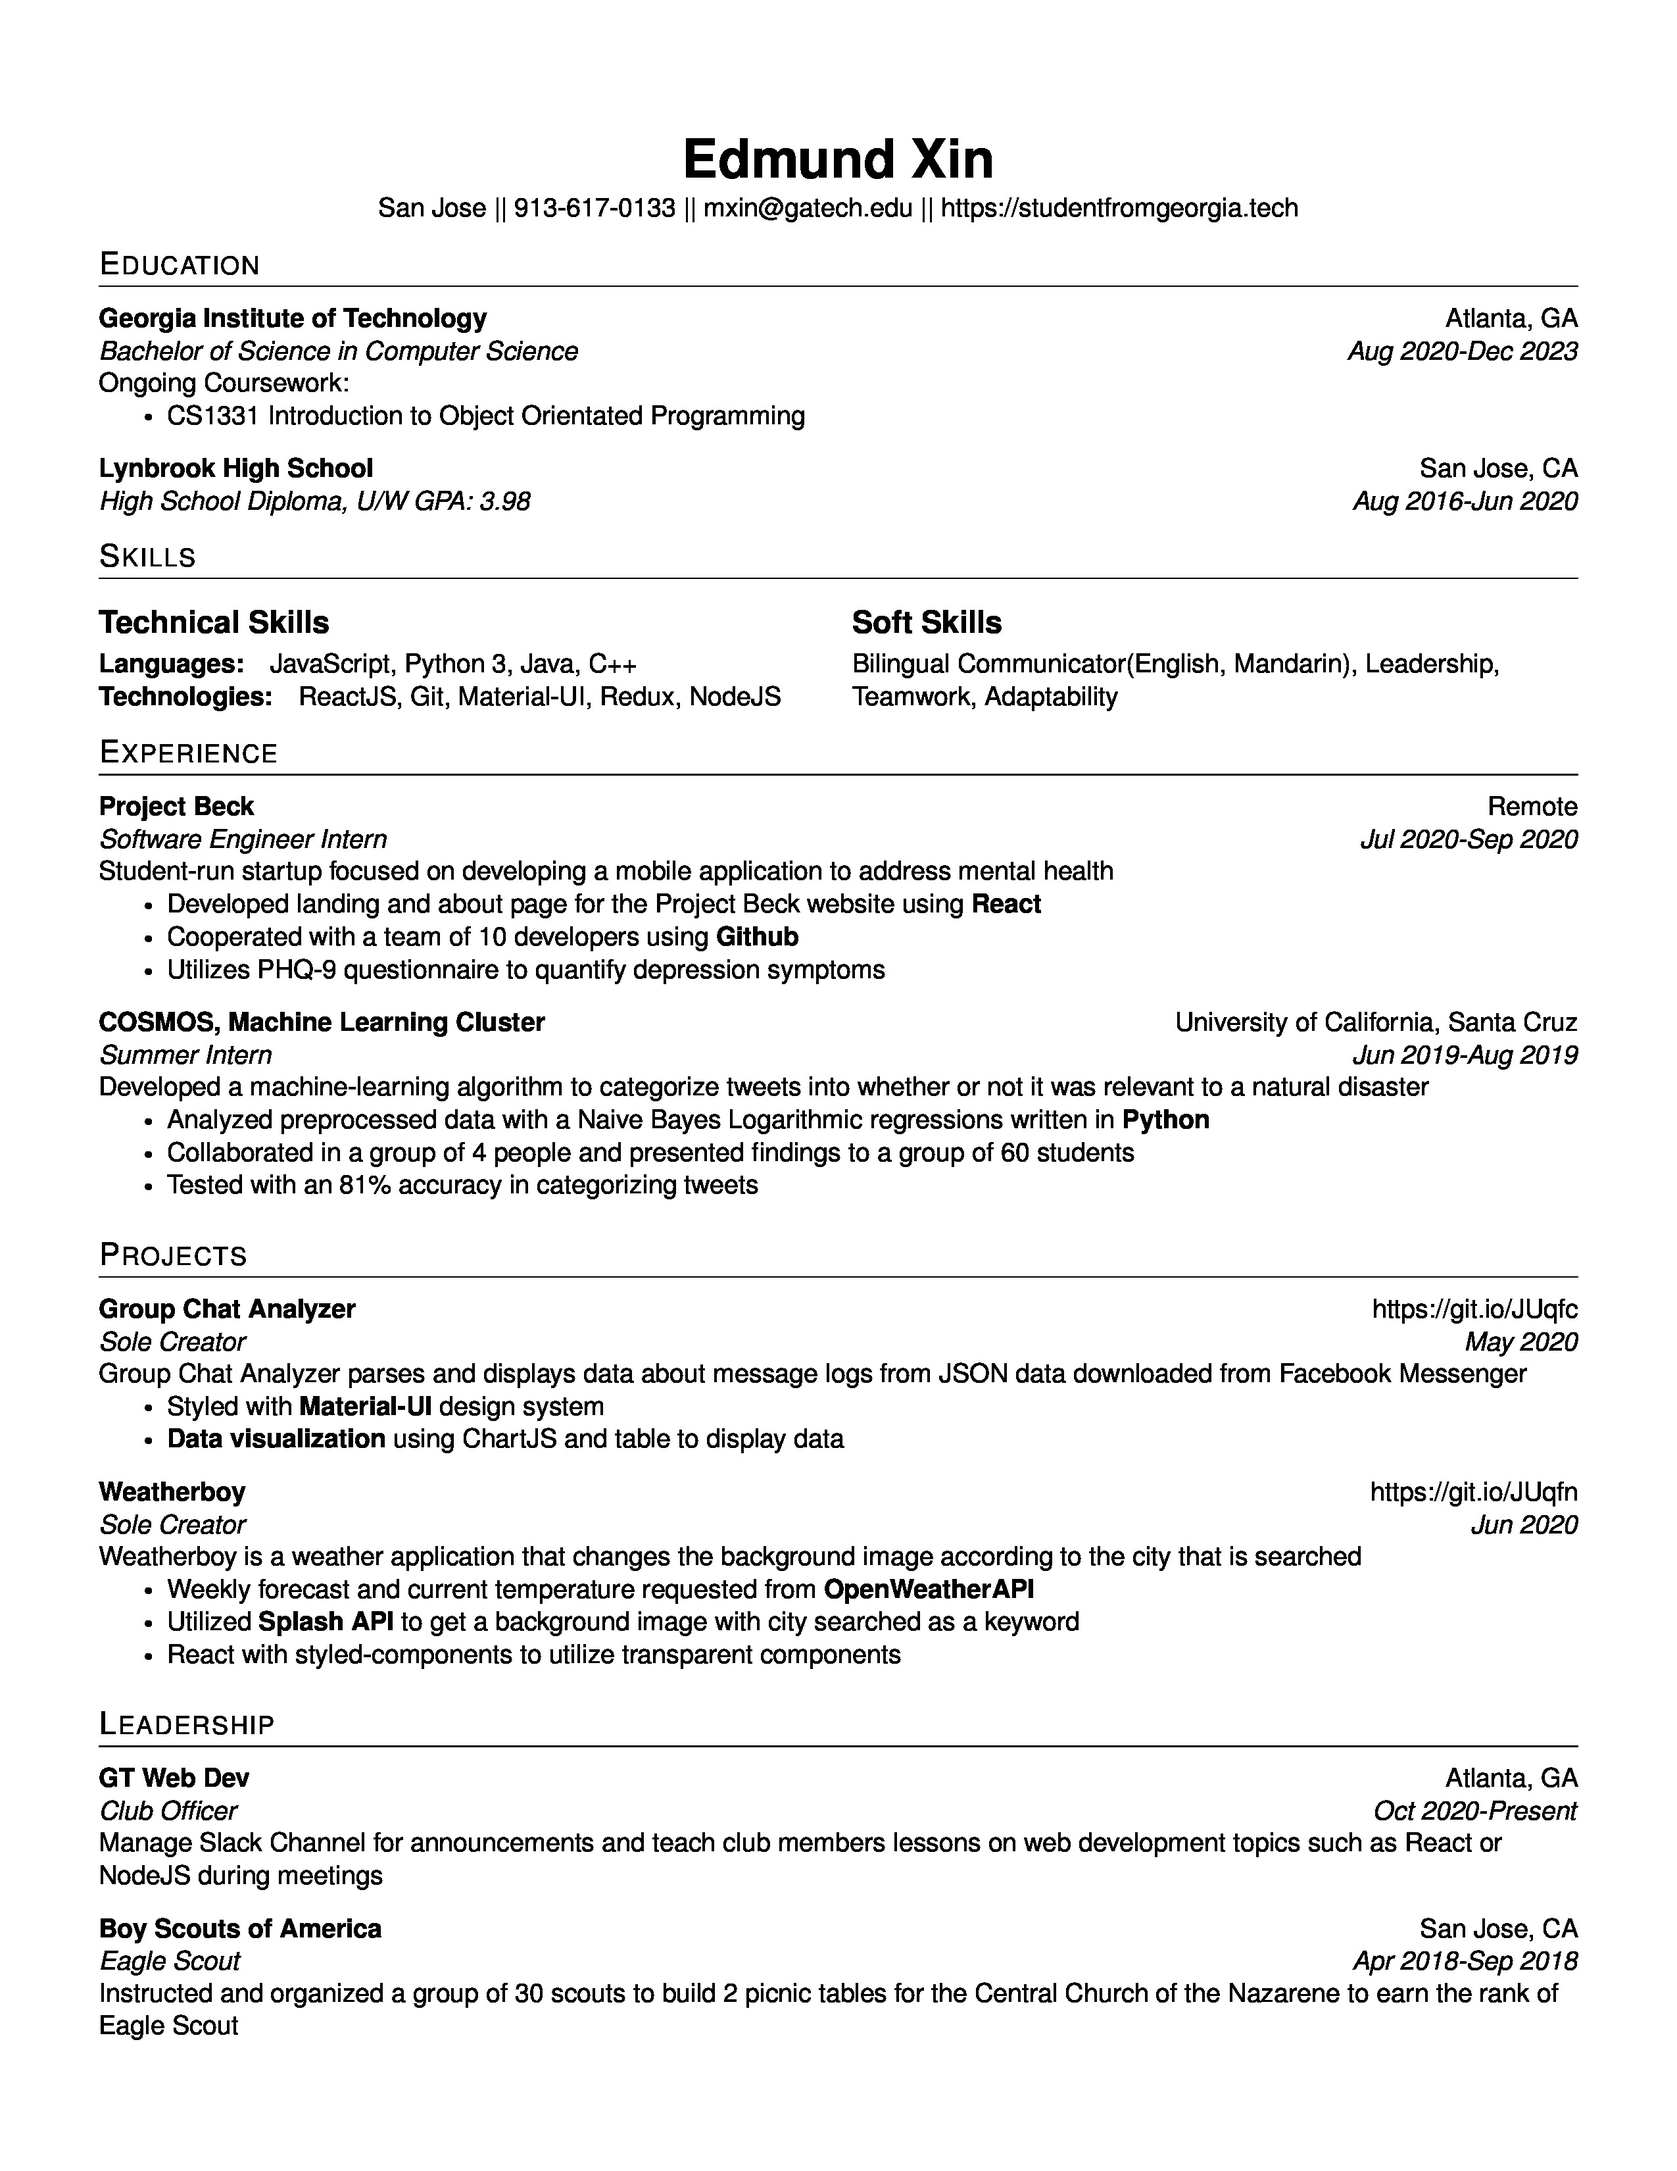
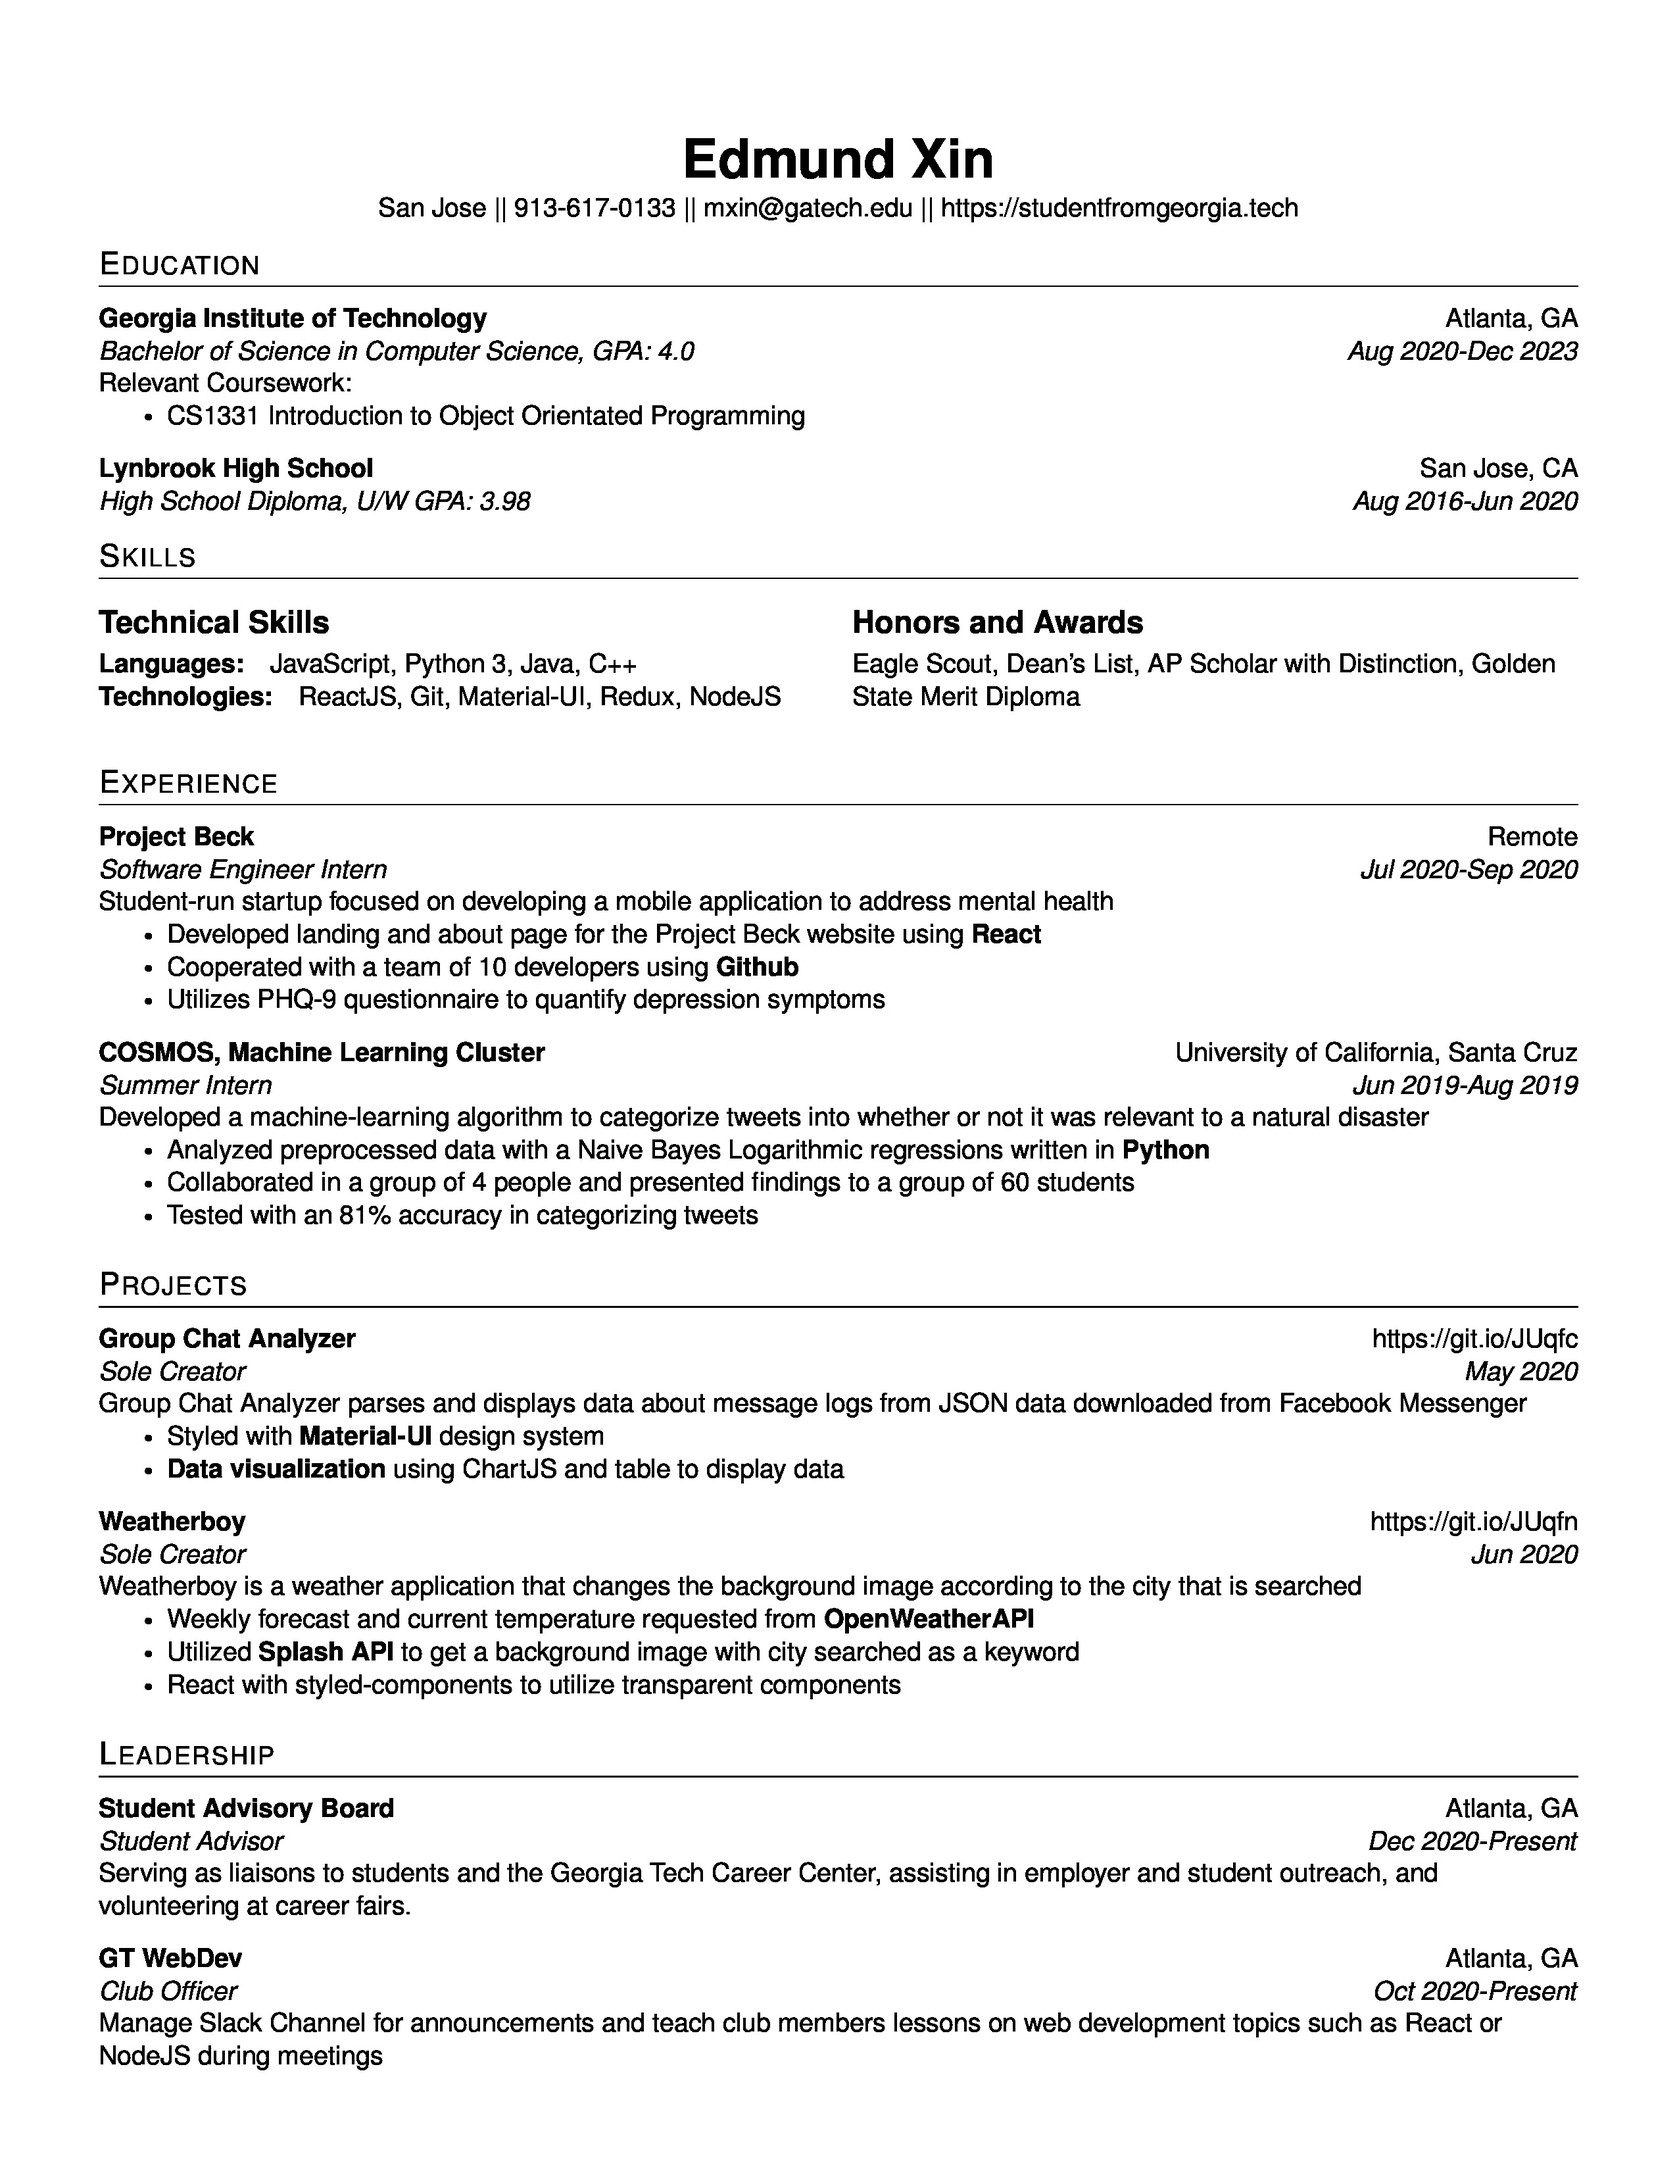
added student advisory position

diff --git a/resume.tex b/resume.tex
@@ -139,7 +139,7 @@ ReactJS, Git, Material-UI, Redux, NodeJS
 
 \setlist{nolistsep}
 \subsection{Honors and Awards}
-Eagle Scout, AP Scholar with Distinction, Golden State Merit Diploma
+Eagle Scout, Dean's List, AP Scholar with Distinction, Golden State Merit Diploma
 
 \end{multicols}
 
@@ -198,15 +198,16 @@ Weatherboy is a weather application that changes the background image according 
 
 \section{Leadership}
 
+\resumeSubheading{Student Advisory Board}
+{Atlanta, GA}{Student Advisor}{Dec 2020-Present}
+
+Serving as liaisons to students and the Georgia Tech Career Center, assisting in employer and student outreach, and volunteering at career fairs.
+
+\vspace{5pt}
 \resumeSubheading{GT WebDev}
 {Atlanta, GA}{Club Officer}{Oct 2020-Present}
 
 Manage Slack Channel for announcements and teach club members lessons on web development topics such as React or NodeJS during meetings
 
-\vspace{5pt}
-\resumeSubheading{Boy Scouts of America}
-{San Jose, CA}{Eagle Scout}{Apr 2018-Sep 2018}
-
-Instructed and organized a group of 30 scouts to build 2 picnic tables for the Central Church of the Nazarene to earn the rank of Eagle Scout
 
 \end{document}
